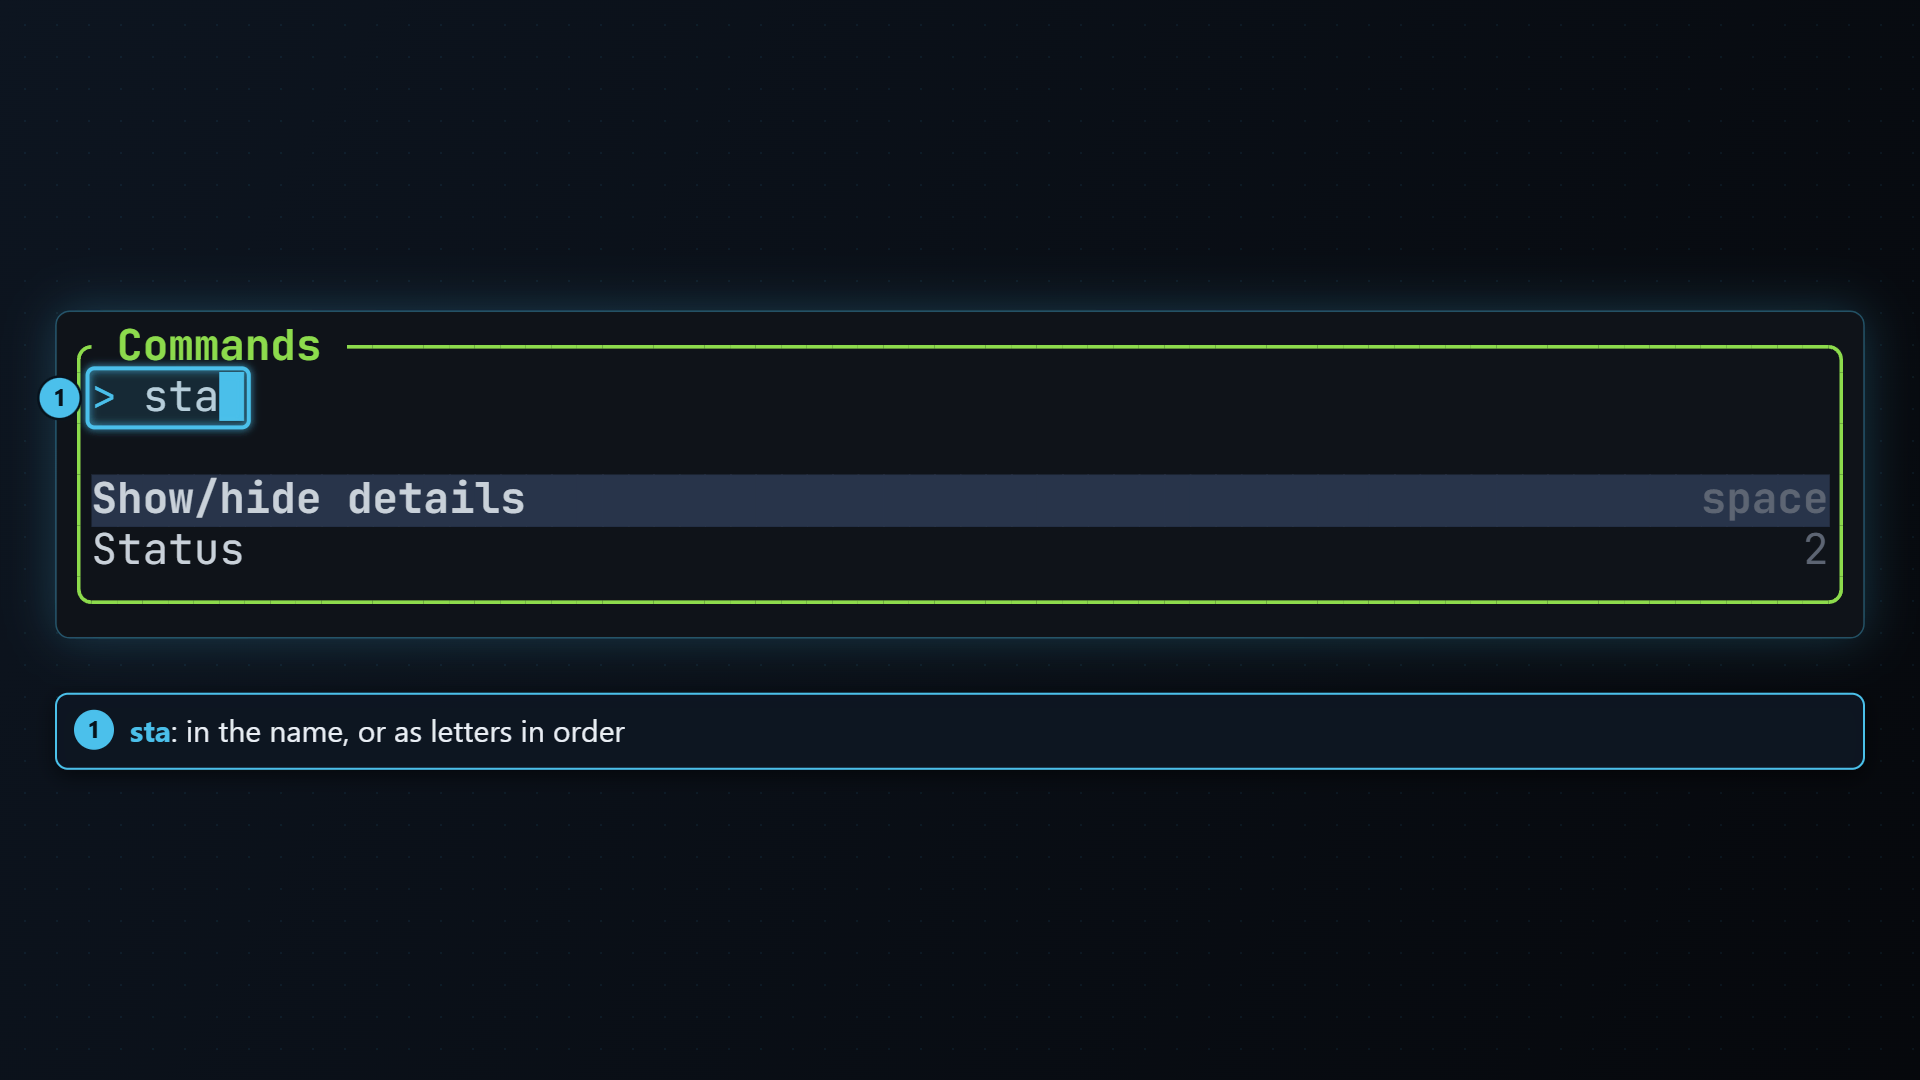
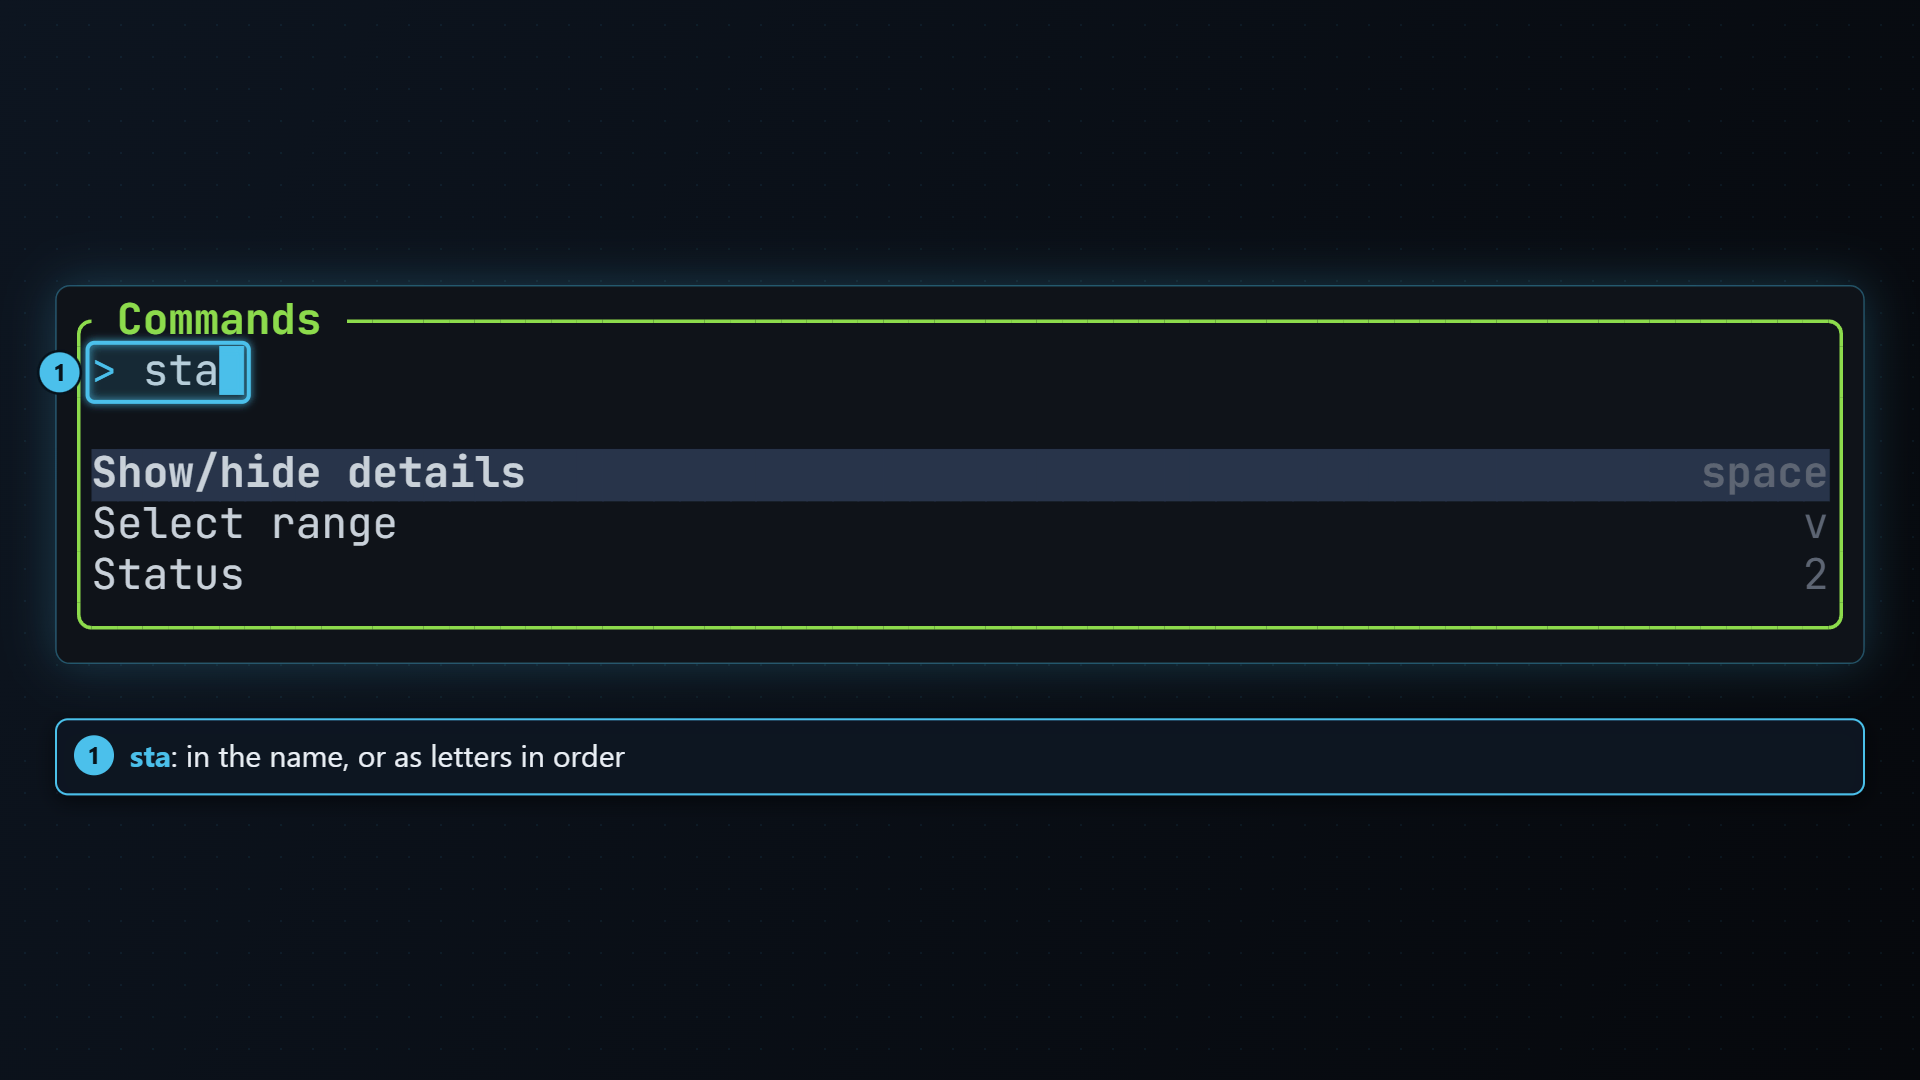
docs(graph): Describe cherry-picking a range of commits

Changed region(s): [[0.0, 0.275, 0.9688, 0.6111], [0.0312, 0.6417, 0.9688, 0.7333], [0.8438, 0.7028, 0.9688, 0.7333]]

diff --git a/crates/tt-git-testkit/examples/docshots.rs b/crates/tt-git-testkit/examples/docshots.rs
@@ -58,6 +58,10 @@ fn main() {
         ("graph-new-worktree", &["j", "n", "tab", "text:fix/bell-a11y"]),
         ("graph-merge-confirm", &["j", "j", "j", "j", "j", "M"]),
         (
+            "graph-cherry-pick-range",
+            &["j", "j", "j", "j", "j", "v", "j", "j", "C"],
+        ),
+        (
             "agent-dialog",
             &["j", "A", "tab", "tab", "text:start from the bell icon"],
         ),

diff --git a/README.md b/README.md
@@ -107,7 +107,7 @@ command palette, which lists built-in commands and plugin actions.
 | | `q` | quit |
 | graph | `enter` | the commit fullscreen: changed files on the left, the selected file's diff on the right (`j`/`k` pick a file, `pgup`/`pgdn` scroll, `esc` or `space` back) |
 | | `space` | show / hide the commit's details (they replace the bottom row) |
-| | `esc` | hide details (with details hidden: clear the filter) |
+| | `esc` | end a range; else hide details (with details hidden: clear the filter) |
 | | `a` | all branches ↔ current branch |
 | | `t` | dates as age (`3h`) ↔ local date and time (`2026-10-17 01:30 PM`) |
 | | `L` | hide / show the lanes, so each row starts with its badges and subject |
@@ -115,7 +115,8 @@ command palette, which lists built-in commands and plugin actions.
 | | `o` | check out the selected commit: the local branch on it if there is one, else the commit with HEAD detached (with uncommitted changes, asks to stash them first) |
 | | `n` | new branch at the selected commit (`tab` in the dialog: create it in a worktree) |
 | | `T` | new tag at the selected commit (`tab` in the dialog: annotated, with a message) |
-| | `M` / `r` / `C` | merge into current / rebase current onto / cherry-pick |
+| | `M` / `r` / `C` | merge into current / rebase current onto / cherry-pick (the whole range, if one is selected) |
+| | `v` | start or end a range of commits to cherry-pick (`esc` also ends it) |
 | | `c` | copy the commit hash |
 | | `A` | ask an AI agent about the commit, or start a ready-made action (explain branch, resolve conflicts…); opens in a herdr tab inside herdr, else in place of details |
 | | `]` `[` (or `}` `{`) | next / previous tab in the branches pane, without leaving the graph |

diff --git a/docs/configuration.md b/docs/configuration.md
@@ -229,7 +229,7 @@ Write keys as `q`, `Q`, `shift+q`, `ctrl+c`, `alt+enter`, `shift+tab`,
 | `move_up`, `move_down`, `page_up`, `page_down`, `top`, `bottom` | `k`/`↑`, `j`/`↓`, `ctrl+u`, `ctrl+d`, `g`, `G` | global |
 | `refresh`, `push`, `pull` | `ctrl+r`, `P`, `p` | global |
 | `undo` | `z` | global |
-| `toggle_scope`, `toggle_dates`, `toggle_lanes`, `checkout`, `filter`, `new_branch`, `new_tag`, `merge`, `rebase`, `cherry_pick`, `agent` | `a`, `t`, `L`, `o`, `f`, `n`, `T`, `M`, `r`, `C`, `A` | graph |
+| `toggle_scope`, `toggle_dates`, `toggle_lanes`, `checkout`, `filter`, `new_branch`, `new_tag`, `merge`, `rebase`, `cherry_pick`, `select_range`, `agent` | `a`, `t`, `L`, `o`, `f`, `n`, `T`, `M`, `r`, `C`, `v`, `A` | graph |
 | `checkout`, `new_branch`, `new_tag`, `delete_branch`, `rename_branch`, `fetch`, `filter`, `merge`, `rebase` | `enter`/`space`, `n`, `T`, `d`, `R`, `f`, `/`, `M`, `r` | branches |
 | `push_tag` | `P` (on the Tags tab; pushes the branch on the others) | branches |
 | `next_tab`, `prev_tab`, `pick_base` | `]` `}`, `[` `{`, `b` | branches |

diff --git a/docs/plugins.md b/docs/plugins.md
@@ -145,7 +145,7 @@ Event hooks are low-volume events, each run as a fresh process:
 | `commit.created` | `{oid, amend, summary}` |
 | `fetch.completed` / `pull.completed` / `push.completed` | `{}` / `{branch, head}` / `{branch}` |
 | `files.staged` / `files.unstaged` / `files.discarded` | `{paths}` (`"all"` for stage-all) / `{paths}` / `{path}`, plus `partial: true` when only some hunks or lines changed; discard all sends `{path: "all", scope}` with `scope` one of `everything`, `unstaged`, `unstaged_and_untracked`, `untracked` |
-| `merge.completed` / `rebase.completed` / `cherry_pick.completed` | `{target/onto/picked, head}` |
+| `merge.completed` / `rebase.completed` / `cherry_pick.completed` | `{target/onto/picked, head}`; cherry-pick also sends `summary` and `commits` (every hash picked, oldest first; `picked` is the last) |
 | `stash.created` / `stash.applied` / `stash.dropped` | `{message}` / `{stash, pop}` / `{stash}` |
 | `worktree.removed` | `{path, branch, force}` (`branch` null if it was detached; `force` true if removed with its changes) |
 
